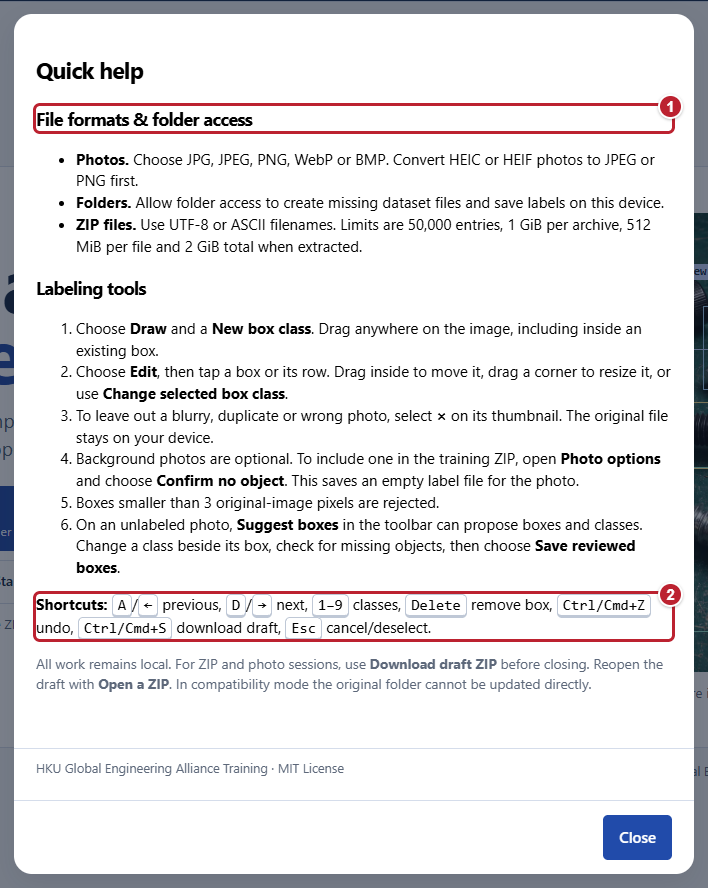
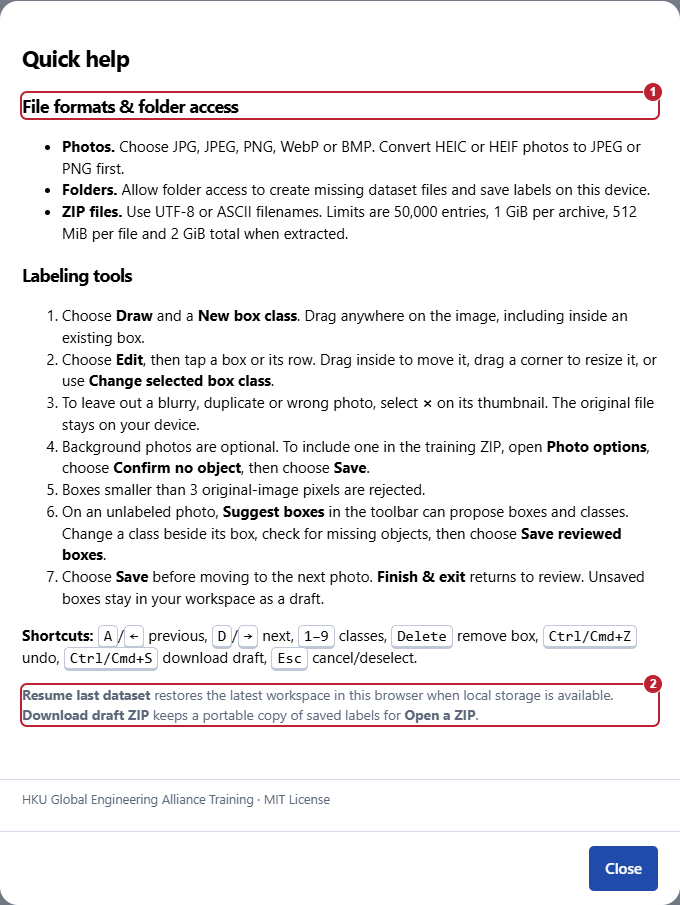
Update the guide and screenshots for the new labeling workflow

Changed region(s): [[0.0, 0.0, 1.0, 1.0]]

diff --git a/README.md b/README.md
@@ -6,11 +6,11 @@
 
 **Make a YOLO dataset from your own photos.** Choose the object types you want to detect, draw a box around each one, then download a ZIP containing your photos, labels and class names. Labeling runs on your device and requires no account.
 
-[Try the sample photos](#try-the-sample-photos) · [Label your own photos](#your-first-dataset) · [Label on a phone](#use-the-workbench-on-a-phone) · [Continue training in Colab](#continue-training-in-colab)
+[Try the sample photos](#try-the-sample-photos) · [Label your own photos](#your-first-dataset) · [Label on a phone](#use-the-workbench-on-a-phone) · [Resume your work](#resume-your-work) · [Continue training in Colab](#continue-training-in-colab)
 
 For a quick first try, download the [nearly finished dataset ZIP](https://active-learning-kyle.github.io/yolo-dataset-labeler/examples/fasteners/fastener-labeled-dataset.zip) and select it with **Open a ZIP**. One photo is left to review.
 
-![The annotation workbench with a boxed bolt and hex nut, the Suggest boxes toolbar button, and five distinct hardware photos](docs/guide/04-label-objects.png)
+![The workbench with two draft boxes, separate Save and Finish and exit controls, and five different hardware photos](docs/guide/04-label-objects.png)
 
 The example uses photos of loose fasteners, an assembled bolt, a bolted plate, rusted parts and a bag of washers. [Screenshot photo credits](docs/guide/photo-credits.md)
 
@@ -20,12 +20,12 @@ The example uses photos of loose fasteners, an assembled bolt, a bolted plate, r
 
 1. **Start with a folder.** On your computer, create an empty folder called `My Dataset`. Open the labeler in desktop Chrome or Edge, click **Open dataset folder**, select it and allow write access if prompted.
 2. **Add your photos.** Click **Create Missing Items**. The labeler creates `images/`, `labels/` and `classes.txt`. Copy your training photos into `images/`, then click **Refresh Dataset**. Keep a few fresh photos aside for testing.
-3. **Choose your classes.** Click **Add Class** for each object type, enter names such as `bolt` and `hex_nut`, then click **Save Classes** and **Start Labeling**.
-4. **Label each photo.** In **Draw**, choose a **New box class** and drag a tight box around each target. Use **Edit** to adjust the box. If you use [**Suggest boxes**](#get-suggestions-for-a-photo), check each suggestion, draw any missing boxes and click **Save reviewed boxes**. Then click **Next** to move on.
-5. **Download your work.** Remove photos you want to leave out. To keep one with no targets, choose **Photo options → Confirm no object**. Click **Save & exit**, finish any remaining images and select **Download Labeled_data.zip** in **Review & export**.
+3. **Choose your classes.** Click **Add Class** for each object type, enter names such as `bolt` and `hex_nut`, then click **Save Classes** and **Start Labeling**. On your first visit, dismiss the box guide with **Got it** or **×**.
+4. **Label and save each photo.** In **Draw**, choose a **New box class** and drag a tight box around each target. Use **Edit** to adjust it. Click **Save** on each photo before **Next**. If you used [**Suggest boxes**](#get-suggestions-for-a-photo), check the suggestions and click **Save reviewed boxes** instead.
+5. **Finish and download.** To keep a photo with no targets, choose **Photo options → Confirm no object**, then **Save**. When every included photo is reviewed, choose **Finish & exit** and then **Download Labeled_data.zip** in **Review & export**.
 6. **If you’re training in Colab.** Find the file in Downloads, click **I have the ZIP**, then **Continue to Training in Colab**. Upload the ZIP as-is through **Files** in your training notebook. See [Continue training in Colab](#continue-training-in-colab).
 
-If you pause before finishing a photo or ZIP session, save a [draft ZIP](#review-save-and-resume).
+Returning after a break or a refresh? Choose [**Resume last dataset**](#resume-your-work) on the opening screen.
 
 [Import photos or ZIPs](#open-or-add-images) · [Classes and merging](#set-up-classes-and-combine-datasets) · [Drawing tools](#use-the-annotation-workbench) · [Phone controls](#use-the-workbench-on-a-phone) · [Saving and repairs](#review-save-and-resume) · [Export](#export-your-training-zip) · [Colab](#continue-training-in-colab) · [Help and shortcuts](#help-and-keyboard-shortcuts)
 
@@ -35,12 +35,12 @@ Use these five photos to practice labeling `bolt` and `hex_nut`. Choose the work
 
 | Labeler button | Download | What to do |
 |---|---|---|
-| **Open a ZIP** | [Nearly finished dataset ZIP](https://active-learning-kyle.github.io/yolo-dataset-labeler/examples/fasteners/fastener-labeled-dataset.zip) | Select the downloaded ZIP as-is. Click **Label remaining photos (1)** to open the washer-only photo. To include it as a background, use **Photo options → Confirm no object**. To remove it, use **×** on its thumbnail. On desktop, hover over the thumbnail to reveal the button. |
+| **Open a ZIP** | [Nearly finished dataset ZIP](https://active-learning-kyle.github.io/yolo-dataset-labeler/examples/fasteners/fastener-labeled-dataset.zip) | Select the ZIP as-is. Click **Label remaining photos (1)** to open the washers photo. To include it as a background, choose **Photo options → Confirm no object**, then **Save**. To leave it out, use **×** on its thumbnail. On desktop, hover over the thumbnail to reveal the button. |
 | **Start with my photos** | [Unlabeled photos](https://active-learning-kyle.github.io/yolo-dataset-labeler/examples/fasteners/fastener-photos.zip) | Unzip the download. Select the five JPGs inside **Fastener-Photos**, using your photo library or file picker. Add `bolt` first and `hex_nut` second, click **Save Classes**, then **Start Labeling**. |
 
 **Open dataset folder.** Create an empty folder called `My Dataset` and open it in the labeler in desktop Chrome or Edge. Select **Create Missing Items**, unzip the **Unlabeled photos** download above and copy the five JPGs into `My Dataset/images/`. Click **Refresh Dataset** and continue from step 3 of the [walkthrough](#your-first-dataset).
 
-The washers photo contains neither target class. You can remove it from the training dataset and keep it aside to test for false detections. When every included photo has been reviewed, click **Save & exit** and download **Labeled_data.zip**. Keep the photo credits from the pack with any copy you share. [Photo sources and licenses](docs/guide/photo-credits.md)
+You can keep the washers photo aside to test for false detections. When every included photo has been reviewed, click **Finish & exit** and download **Labeled_data.zip**. Keep the photo credits from the pack with any copy you share. [Photo sources and licenses](docs/guide/photo-credits.md)
 
 ## Open or add images
 
@@ -57,9 +57,9 @@ The washers photo contains neither target class. You can remove it from the trai
 | A folder on your computer | Use **Open dataset folder**. In **Direct folder mode**, edits are written back to that folder. To add more photos, copy them into `images/`, save any class edits and click **Refresh Dataset**. |
 | Individual photos | Use **Start with my photos**, or drop the photos together onto the opening screen. In setup, use **Add photos** to add another batch. |
 | A ZIP of photos, a dataset or a saved draft | Use **Open a ZIP**, or drop one ZIP onto the opening screen. Existing classes and matching labels are restored when present. Drop photos and ZIPs separately. |
-| A browser that only imports folders | You can import an existing dataset with files. For an empty folder, choose **Start with my photos**. In **Compatibility mode**, download a ZIP to keep your edits. |
+| A browser that only imports folders | You can import an existing dataset with files. For an empty folder, choose **Start with my photos**. Download a ZIP when you want a portable copy. |
 
-While labeling, choose **+ Add photos** at the end of the image strip to append more photos. On a phone, open the strip with **Images** first. Use the **×** on a thumbnail to remove that photo and its label from the current dataset and future ZIP exports. Hover over the thumbnail or focus it with the keyboard to reveal the button on a computer. **Undo remove** restores the photo with its label. The original files stay on your device. If you reopen the original folder, its photos are included again. Reopen your exported ZIP to continue with the curated set.
+While labeling, use **+ Add photos** at the end of the photo list. Use **×** on a thumbnail to leave the photo and its label out of future ZIPs. On a computer, hover over the thumbnail or focus it with the keyboard to reveal the button. **Undo remove** restores the photo and its label. The original files stay on your device. You can return to the same workspace with **Resume last dataset** or reopen an exported ZIP with your selected photos.
 
 If you remove every photo, choose **Add photos**, **Undo remove**, or **Back to dataset** to return to setup.
 
@@ -84,7 +84,7 @@ A class is an object type. Use a distinct, non-empty name for each one. The numb
 
 ## Use the annotation workbench
 
-The numbers in the [workbench screenshot above](#yolo-dataset-labeler) show **1** Draw or Edit, **2** the class for the next box, **3** the list of existing boxes, **4** Next, **5** Save & exit, **6** the row of photos and **7** Suggest boxes.
+The numbered controls in the [workbench screenshot above](#yolo-dataset-labeler) are **1** Draw or Edit, **2** New box class, **3** Bounding boxes, **4** Save, **5** Next, **6** Finish & exit, **7** the photo list and **8** Suggest boxes.
 
 | Task | How to do it |
 |---|---|
@@ -93,39 +93,42 @@ The numbers in the [workbench screenshot above](#yolo-dataset-labeler) show **1*
 | Choose the next object type | Use **New box class**. This switches to **Draw** and sets the class for the next box. Existing boxes keep their assigned classes. |
 | Check a small detail | Use **+** or **−** to zoom, then **Pan** to drag the enlarged image. **Fit** restores the whole image. **Hide boxes** lets you inspect the photo underneath. Click **Show boxes** to resume working with boxes. |
 | Reverse a mistake | **Undo** and **Redo** apply to the current image. You can undo a box change or an accidental background decision. |
-| Find another image | Use **Previous**, **Next** or a thumbnail. Type part of a filename in **Find image…** or filter by review status. Previous and Next follow the filtered list. On narrow screens, tap **Images** to open the list. |
+| Find another image | Use **Previous**, **Next** or a thumbnail. Save the current photo before moving forward. Use **Find image…** or the status filter to narrow the list. **Previous** and **Next** follow that list. |
 
 ### Get suggestions for a photo
 
 1. Save your classes and click **Start Labeling**, or choose **Label remaining photos** in a partly reviewed dataset. Open an unlabeled photo. Use descriptive class names such as `bolt` and `hex_nut`.
 2. If you want suggestions, click **Suggest boxes** in the toolbar above the photo, beside the drawing controls. First use downloads about 155 MB of model weights. The browser processes your photos on your device. Use **Cancel** if you want to carry on by hand.
 3. Check each dashed box. Choose its class in the menu beside that box under **Bounding boxes**. Use **Edit** to move or resize a box, **Delete** to remove one, and **Draw** to add any missed objects. The number marked **AI** is the model's score for its original suggestion.
-4. Click **Save reviewed boxes** when the whole photo is ready. To start over, click **Discard suggestions**. If the model suggests nothing, check the photo yourself and draw boxes around any missed targets.
+4. Click **Save reviewed boxes** below the photo when the whole photo is ready. To start over, click **Discard suggestions**. If the model suggests nothing, check the photo yourself and draw boxes around any missed targets.
 
-![A dashed suggestion around the bolt, the class selector beside it, and the Save reviewed boxes button](docs/guide/10-review-suggested-boxes.png)
+![A dashed suggestion on the hex nut with its class set to bolt, and callouts on the class selector and Save reviewed boxes](docs/guide/10-review-suggested-boxes.png)
 
-The suggestion found the bolt. Select **Draw** and the `hex_nut` class to add the missing box around the nut before saving.
+In this example, the dashed box is on the hex nut and the suggested class is `bolt`. Change the class to `hex_nut`, resize the box to fit, then draw a separate box around the bolt before saving.
 
 The model is [OWL-ViT](https://huggingface.co/google/owlvit-base-patch32), using [quantized ONNX weights](https://huggingface.co/Xenova/owlvit-base-patch32). Fine distinctions, small parts and partly hidden objects may need more hand correction.
 
 ### Use the workbench on a phone
 
-**Label a photo.** **1** Tap **Draw** and drag a finger across the photo to frame an object, or tap **Edit** to adjust a box. **2** Use **New box class** to choose the class for the next box. **3** Tap **Save & exit** to return to **Review & export**.
+**Browse photos.** The **Images** list stays above the workbench. **1** Check the image count. **2** Filter by status or search by filename. **3** Swipe through the thumbnails to find a photo, or use **+ Add photos** at the end.
 
-**Find another photo.** **1** Tap **Images** to open the photo list. **2** Filter by status or search by filename. **3** Swipe through the thumbnails and tap one to return to the canvas. Use **Add photos** at the end of the list to bring in more images.
+<img src="docs/guide/08-mobile-images.png" alt="Phone with the Images list above the workbench and callouts on the count, status filter and a thumbnail" width="350">
 
-<p>
-  <img src="docs/guide/13-mobile-label.png" alt="Phone workbench with Draw and Edit, New box class, and Save and exit highlighted around the annotated fasteners photo" width="330">
-  <img src="docs/guide/08-mobile-images.png" alt="Phone workbench with the Images drawer open and callouts for the drawer, status filter, and a photo thumbnail" width="330">
-</p>
+**Label a photo.** **1** Tap **Draw** and drag with one finger, or use **Edit** to adjust a box. **2** Choose a **New box class**. **3** Tap **Save** to review the current photo and enable **Next** when another photo remains. **4** Tap **Finish & exit** to return to **Review & export**.
+
+<img src="docs/guide/13-mobile-label.png" alt="Phone workbench showing an annotated bolt and nut, with separate Save and Finish and exit buttons highlighted" width="350">
 
 After zooming in, use **Pan** to move the photo with one finger, then switch back to **Draw** or **Edit**.
 
 ## Review, save and resume
 
-In **Review & export**, choose **Start Labeling** for a fresh set. When a set is partly reviewed, **Label remaining photos** opens the first unlabeled photo and filters the list to the number shown. Choose **Review all photos** to revisit earlier work. **Review invalid files** appears when a label needs repair. **Save & exit** saves the current edits before returning here. Once the dataset is ready, **Download Labeled_data.zip** appears and **Labeling finished** shows totals per class.
+**Save** applies to one photo. Draw or edit your boxes, check them, then click **Save** and use **Next**. When the **Unlabeled** filter is on, a photo stays in the list until you save its review. To abandon a draft and return to the last saved boxes, use **Photo options → Discard unsaved edits**.
 
-When you work through the **Unlabeled** filter, photos stay in that list while you edit them. The labeler saves your edits as you go and updates their review status when you choose **Save & exit**.
+**Finish & exit** returns to **Review & export**. If photos still need review, choose **Keep labeling** or **Exit to review**. Unsaved boxes stay in the workspace as drafts and still need to be saved. When review is complete, **Finish & exit** returns directly to the export controls.
+
+<img src="docs/guide/16-finish-exit.png" alt="Finish and exit prompt showing how many photos still need review and the Keep labeling and Exit to review buttons" width="440">
+
+In **Review & export**, choose **Start Labeling** for a fresh set, **Label remaining photos** to go to the first unlabeled photo, or **Review all photos** to revisit earlier work or a draft. **Review invalid files** appears when a label needs repair.
 
 ![Review and export area for a dataset with one photo left. Numbered controls open the remaining photo or review all five photos.](docs/guide/09-resume-labeling.png)
 
@@ -134,20 +137,26 @@ When you work through the **Unlabeled** filter, photos stay in that list while y
 | Status or message | What it means and what to do |
 |---|---|
 | **Labeled** | The photo has boxes. Check that every visible target has the right class. |
-| **No Object** | Background photos are optional. To keep a photo with no targets, open **Photo options** and select **Confirm no object**. The training ZIP includes it with an empty label file. |
-| **Unlabeled** | The photo still needs review. Clicking **Next** on an untouched photo leaves it in this state. |
+| **No Object** | Background photos are optional. Choose **Photo options → Confirm no object**, then **Save**. The training ZIP includes an empty label file for the photo. |
+| **Unlabeled** | The photo still needs review. Draw boxes or confirm that the photo has no targets, then click **Save**. |
 | **Invalid** | Inspect the filename and line error. Review the boxes shown, correct or redraw them, then use **Save repaired label** when offered. Confirming replaces the invalid label with the boxes on screen. |
 | **Orphan labels** or ambiguous filenames | Match each label to one image by filename stem, for example `bolt-01.jpg` and `bolt-01.txt`. Correct the source files, then refresh a writable folder or re-import the corrected dataset. |
 
 For a blurry, duplicate or wrong photo you want to leave out, select **×** on its thumbnail.
 
-**Folder sessions.** Look for **Saved to folder**. Reopen the same folder to resume. If **Save failed** appears, the current image stays open. Restore write access and try **Save & exit** again.
+**Folder sessions.** Look for **Saved to folder**. If **Save failed** appears, the current image and its draft stay open. Restore write access and click **Save** again.
 
-**Photo, ZIP and read-only folder sessions.** **In this tab · download ZIP to keep** means your edits are held in this tab. Choose **Download draft ZIP**, check that `Labeler-draft.zip` is in Downloads and use **Open a ZIP** next time. Unreviewed photos stay unreviewed. Use **Close dataset** to return to the opening screen after saving.
+### Resume your work
+
+After refreshing, reopening the labeler or choosing **Close dataset**, click **Resume last dataset** on the opening screen. Use the same browser and site address. The labeler restores the latest workspace, including the photo you were viewing and its draft edits, when local browser storage is available. Folder sessions may ask for folder access again.
+
+<img src="docs/guide/15-resume-dataset.png" alt="Opening screen with Resume last dataset highlighted above the folder, ZIP and photo options" width="390">
+
+To keep a portable copy, use **Download draft ZIP** and reopen `Labeler-draft.zip` through **Open a ZIP**. It includes photos and saved labels. Unsaved boxes are kept in the local workspace. **Forget last dataset** removes the recovery copy from this browser.
 
 ## Export your training ZIP
 
-You can export once every image has boxes or a confirmed background and you have resolved the dataset issues. If export is blocked, check the filenames in **Review & export**.
+After saving each included photo, choose **Finish & exit**. **Download Labeled_data.zip** appears once every photo is reviewed and any dataset issues are resolved. If export is blocked, check for unsaved drafts or invalid files in **Review & export**.
 
 ![Review and export area with 100% completion, zero unlabeled or invalid images, and the Download Labeled_data.zip button outlined](docs/guide/05-export-dataset.png)
 
@@ -191,7 +200,11 @@ If you are using the HKU training notebook, run its cells in order.
 
 ## Help and keyboard shortcuts
 
-Click **Help** in the top bar for a reminder about drawing, editing, marking backgrounds, minimum box size, shortcuts and saving. While labeling, expand **Box guide & shortcuts** below the bounding-box list to see a loose box and a tight box around the same hex nut.
+The first time you open the workbench, the box guide shows how closely to fit a box around an object. Choose **Got it** or **×** to dismiss it. You can open it again from **Box guide & shortcuts** below the bounding-box list.
+
+<img src="docs/guide/17-box-guide.png" alt="First-use box guide showing loose and tight boxes, with a Close button and a Got it button" width="390">
+
+Click **Help** in the top bar for a reminder about file formats, folder access, editing, backgrounds and saving.
 
 ![Quick help with file formats and folder access at the top, followed by labeling tips and keyboard shortcuts](docs/guide/07-quick-help.png)
 
@@ -201,11 +214,11 @@ These shortcuts work in the annotation workbench. Finish typing in a text field 
 |---|---|
 | `B` / `V` | Switch to Draw / Edit. |
 | `1`–`9` | Choose the first through ninth class for the next box and switch to Draw. For example, `1` selects class ID 0. Use the dropdown for later classes. |
-| `A` or `←` / `D` or `→` | Go to the previous / next image. |
+| `A` or `←` / `D` or `→` | Go to the previous / next image when the navigation buttons are available. |
 | `Delete` or `Backspace` | Remove the selected box. |
 | `Ctrl/⌘ + Z` | Undo the last change on this image. |
 | `Ctrl/⌘ + Shift + Z` | Redo it. |
-| `Ctrl/⌘ + S` | Download a draft ZIP. |
+| `Ctrl/⌘ + S` | Download a draft ZIP containing saved labels. |
 | `Esc` | Cancel a drag or deselect the current box. |
 
 [MIT License](LICENSE)
